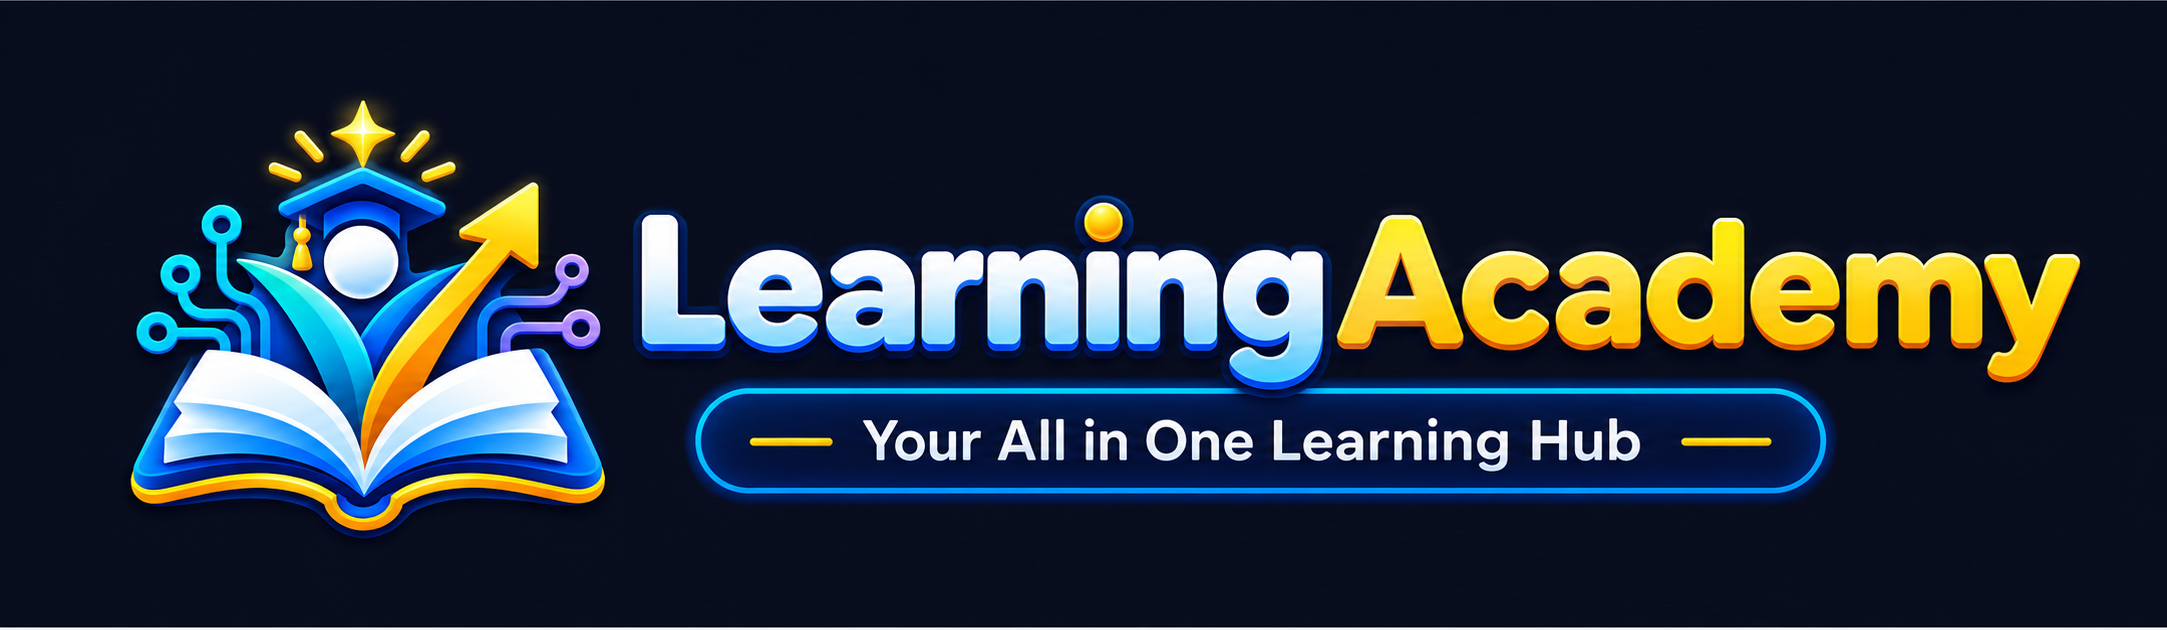
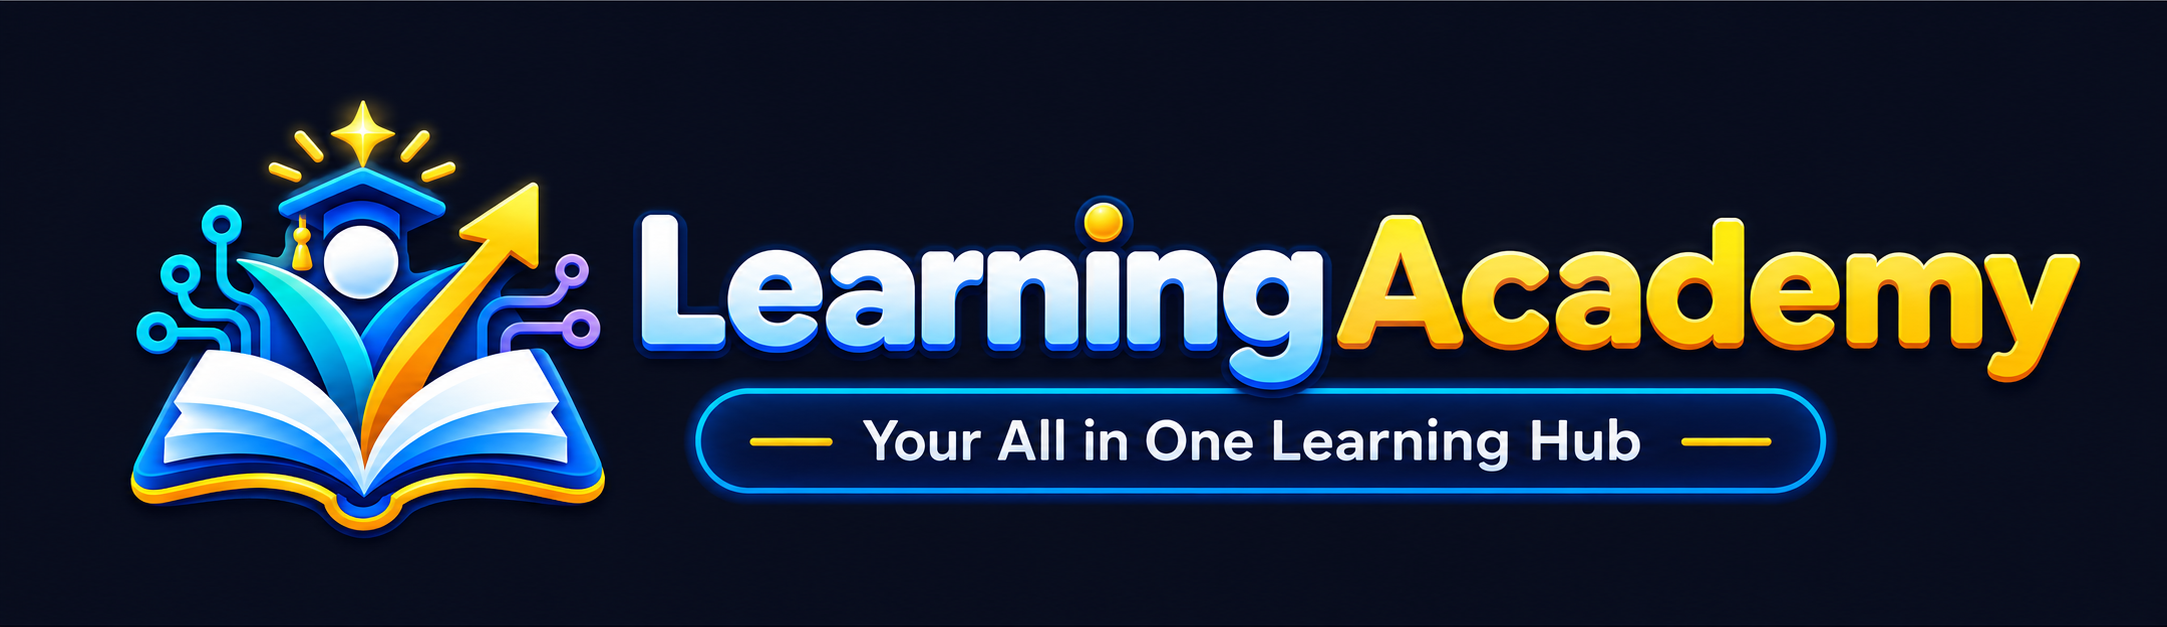
Learning Academy v1.2.7 update

diff --git a/index.html b/index.html
@@ -3,7 +3,7 @@
 <title>Learning Academy</title>
 <style>
 :root{--bg:#090e1d;--p:#121a2d;--p2:#18233c;--line:#2a385a;--txt:#eef3ff;--muted:#aab7d2;--a:#7898ff;--g:#43d79a;--gold:#ffd166;--r:#ff7181}
-*{box-sizing:border-box}body{margin:0;background:linear-gradient(135deg,#090e1d,#101a31);color:var(--txt);font-family:Inter,system-ui,Arial,sans-serif}header{padding:26px 5%;border-bottom:1px solid var(--line);display:flex;justify-content:space-between;align-items:center;gap:18px;position:sticky;top:0;background:#090e1df2;backdrop-filter:blur(12px);z-index:5}.brand{display:flex;align-items:center}.brand-banner{height:72px;width:auto;max-width:min(520px,48vw);object-fit:contain;display:block}.muted{color:var(--muted)}button{border:0;border-radius:11px;padding:10px 14px;background:var(--a);color:#fff;font-weight:750;cursor:pointer}button.alt{background:#253354}button.good{background:var(--g);color:#06140e}.wrap{max-width:1350px;margin:auto;padding:25px 5%}.nav{display:flex;flex-wrap:wrap;gap:8px;margin-bottom:18px}.grid{display:grid;grid-template-columns:1.4fr .6fr;gap:18px}.cards{display:grid;grid-template-columns:repeat(4,1fr);gap:12px}.card{background:var(--p);border:1px solid var(--line);border-radius:18px;padding:18px;box-shadow:0 10px 35px #0002}.big{font-size:32px;font-weight:850}.bar{height:12px;border-radius:99px;background:#253354;overflow:hidden;margin:10px 0}.fill{height:100%;width:0;background:linear-gradient(90deg,var(--a),#9d79ff);transition:.3s}.task{display:flex;gap:12px;align-items:flex-start;padding:14px 4px;border-bottom:1px solid var(--line)}.task:last-child{border-bottom:0}.task input{width:21px;height:21px;accent-color:var(--g);margin-top:2px}.tag{display:inline-block;padding:4px 8px;border-radius:999px;background:#253354;color:#dce5ff;font-size:11px}.weekgrid{display:grid;grid-template-columns:repeat(7,1fr);gap:7px}.dot{min-height:48px;border-radius:10px;background:#202d4b;display:grid;place-items:center;font-size:12px}.dot.done{background:var(--g);color:#06140e}.dot.today{outline:2px solid var(--a)}.month{margin:12px 0;background:var(--p2);border:1px solid var(--line);border-radius:15px;padding:16px}.month h3{margin:0 0 6px}.pill{padding:4px 8px;border-radius:99px;background:#253354;font-size:11px;display:inline-block;margin:2px}.notice{border-left:4px solid var(--a);background:#17233d;padding:14px;border-radius:10px}.hidden{display:none}.modal{position:fixed;inset:0;background:#000a;display:none;align-items:center;justify-content:center;padding:20px;z-index:20}.modalbox{max-width:560px;width:100%;background:var(--p);border:1px solid #41557f;border-radius:24px;padding:30px;text-align:center}.check{font-size:64px;color:var(--g)}.search{width:100%;padding:12px;border-radius:11px;border:1px solid var(--line);background:#0d1528;color:var(--txt);margin:8px 0 15px}.select{padding:10px;border-radius:10px;background:#17233d;color:#fff;border:1px solid var(--line)}@media(max-width:900px){.grid,.cards{grid-template-columns:1fr}.wrap{padding:18px 4%}header{padding:14px 4%}.brand-banner{height:54px;max-width:54vw}}
+*{box-sizing:border-box}body{margin:0;background:linear-gradient(135deg,#090e1d,#101a31);color:var(--txt);font-family:Inter,system-ui,Arial,sans-serif}header{padding:14px 5%;border-bottom:0;box-shadow:none;display:flex;justify-content:space-between;align-items:center;gap:18px;position:sticky;top:0;background:#090e1d;backdrop-filter:none;z-index:5}.brand{display:flex;align-items:center;min-width:0}.brand-banner{height:100px;width:auto;max-width:min(640px,58vw);object-fit:contain;display:block}.muted{color:var(--muted)}button{border:0;border-radius:11px;padding:10px 14px;background:var(--a);color:#fff;font-weight:750;cursor:pointer}button.alt{background:#253354}button.good{background:var(--g);color:#06140e}.wrap{max-width:1350px;margin:auto;padding:25px 5%}.nav{display:flex;flex-wrap:wrap;gap:8px;margin-bottom:18px}.grid{display:grid;grid-template-columns:1.4fr .6fr;gap:18px}.cards{display:grid;grid-template-columns:repeat(4,1fr);gap:12px}.card{background:var(--p);border:1px solid var(--line);border-radius:18px;padding:18px;box-shadow:0 10px 35px #0002}.big{font-size:32px;font-weight:850}.bar{height:12px;border-radius:99px;background:#253354;overflow:hidden;margin:10px 0}.fill{height:100%;width:0;background:linear-gradient(90deg,var(--a),#9d79ff);transition:.3s}.task{display:flex;gap:12px;align-items:flex-start;padding:14px 4px;border-bottom:1px solid var(--line)}.task:last-child{border-bottom:0}.task input{width:21px;height:21px;accent-color:var(--g);margin-top:2px}.tag{display:inline-block;padding:4px 8px;border-radius:999px;background:#253354;color:#dce5ff;font-size:11px}.weekgrid{display:grid;grid-template-columns:repeat(7,1fr);gap:7px}.dot{min-height:48px;border-radius:10px;background:#202d4b;display:grid;place-items:center;font-size:12px}.dot.done{background:var(--g);color:#06140e}.dot.today{outline:2px solid var(--a)}.month{margin:12px 0;background:var(--p2);border:1px solid var(--line);border-radius:15px;padding:16px}.month h3{margin:0 0 6px}.pill{padding:4px 8px;border-radius:99px;background:#253354;font-size:11px;display:inline-block;margin:2px}.notice{border-left:4px solid var(--a);background:#17233d;padding:14px;border-radius:10px}.hidden{display:none}.modal{position:fixed;inset:0;background:#000a;display:none;align-items:center;justify-content:center;padding:20px;z-index:20}.modalbox{max-width:560px;width:100%;background:var(--p);border:1px solid #41557f;border-radius:24px;padding:30px;text-align:center}.check{font-size:64px;color:var(--g)}.search{width:100%;padding:12px;border-radius:11px;border:1px solid var(--line);background:#0d1528;color:var(--txt);margin:8px 0 15px}.select{padding:10px;border-radius:10px;background:#17233d;color:#fff;border:1px solid var(--line)}@media(max-width:900px){.grid,.cards{grid-template-columns:1fr}.wrap{padding:18px 4%}header{padding:10px 4%}.brand-banner{height:68px;max-width:60vw}}
 
 .lesson-shell{display:grid;grid-template-columns:260px 1fr;gap:18px}
 .lesson-sidebar{background:var(--p);border:1px solid var(--line);border-radius:18px;padding:14px;height:max-content;position:sticky;top:95px}

diff --git a/validate.js b/validate.js
@@ -79,8 +79,8 @@ if (!fs.existsSync(courseDir)) {
 }
 
 const pkg = JSON.parse(fs.readFileSync("package.json", "utf8"));
-if (pkg.version !== "1.2.6") fail(`package.json version must be 1.2.6, found ${pkg.version}.`);
-else ok("Application version is 1.2.6");
+if (pkg.version !== "1.2.7") fail(`package.json version must be 1.2.7, found ${pkg.version}.`);
+else ok("Application version is 1.2.7");
 if (!pkg.build?.files?.some(entry => String(entry).startsWith("courses/"))) fail("package.json build.files must include courses/**/*.");
 else ok("Built-in course packages included in Windows build");
 if (!pkg.build?.files?.some(entry => String(entry).startsWith("assets/"))) fail("package.json build.files must include assets/**/*.");

diff --git a/README.md b/README.md
@@ -1,4 +1,4 @@
-# Learning Academy v1.2.6 — Full Header Branding
+# Learning Academy v1.2.7 — Full Header Branding
 
 This small maintenance release removes the visible **Update source** box from Settings. Automatic update checking and installation continue to work exactly as before; the GitHub release source is simply no longer exposed in the user-facing interface.
 
@@ -98,14 +98,19 @@ npm start
 - Completed challenge card changes to a persistent win/loss result until the next day.
 
 
-## v1.2.6 — Full Header Branding
+## v1.2.7 — Full Header Branding
 
 - Replaced the old small header icon plus separate text branding with the approved full Learning Academy banner logo.
 - The Windows application icon remains unchanged.
 - Added responsive header-logo sizing for smaller windows.
 
 
-## v1.2.6
+## v1.2.7
 - Corrected the Windows application/desktop shortcut icon positioning.
 - Enlarged the icon artwork within the ICO canvas so it appears larger and evenly centered.
 - Rebuilt the multi-resolution Windows ICO used by both Electron and electron-builder.
+
+## v1.2.7 Header Branding Polish
+- Removed the visible line under the header branding.
+- Matched the header background to the application background for a seamless blend.
+- Increased the header logo size while keeping the full wordmark and tagline visible.
